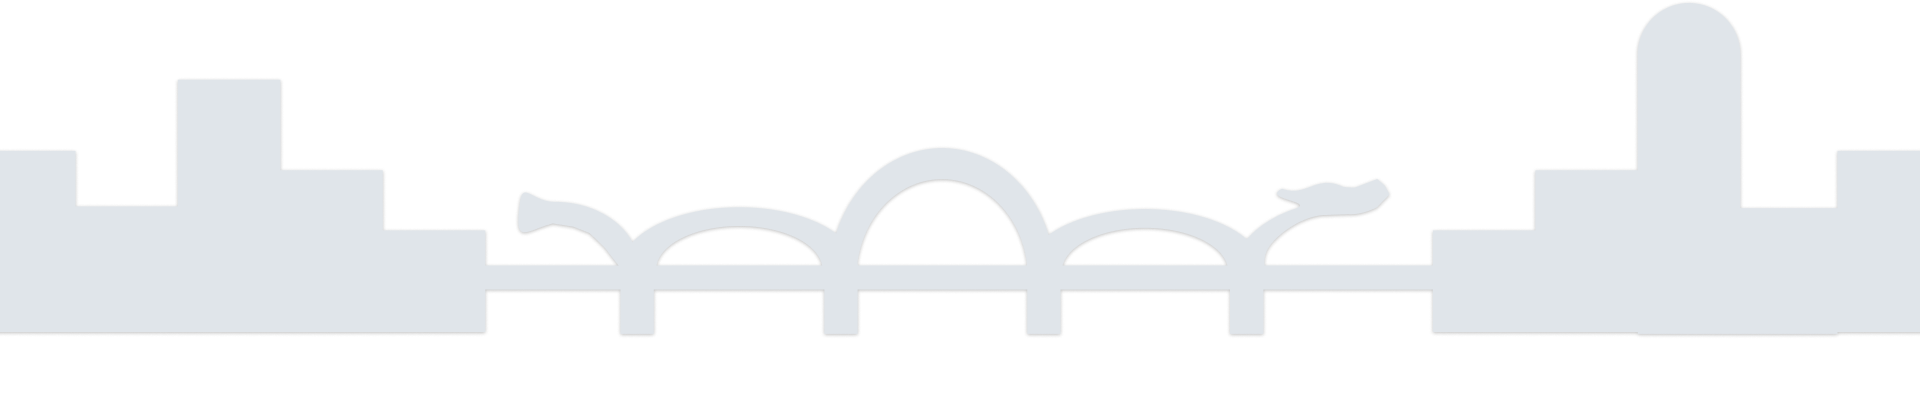
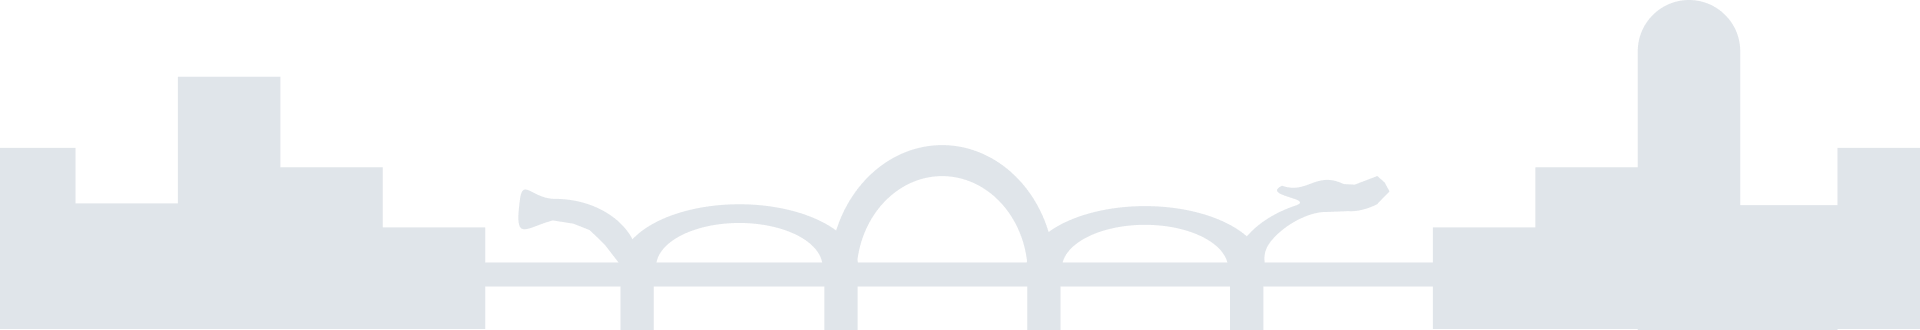
Repositioned items and added about me section

diff --git a/gordons_website/src/App.js b/gordons_website/src/App.js
@@ -5,42 +5,65 @@ import reflection from './images/Reflection.png';
 import author from './images/Author 1.png';
 import linkedin from './images/LinkedIn-Symbole 1.png';
 import github from './images/GitHub_Invertocat_Logo 1.png';
-import resume from './images/resume.png';
+import info_extra from './images/More-info2.png';
 
 
 function App() {
   return (
     <div className="App">
       
-
-      <div className="home-introduction-wrapper">
-        
-        <span className="navbar-wrapper">
-          <div className="navbar">
-            <a className="home">Home</a>
-            <a className="about-me">About me</a>
-            <a className="experience">Experience</a>
-            <a className="contact">Contact</a>
-          </div>
-        </span>
-
+      <span className="navbar-wrapper">
+        <ul className="navbar">
+          <a href="#home-introduction-wrapper" className="home">Home</a>
+          <a href="#about-me-wrapper" className="about-me">About me</a>
+          <a className="experience">Experience</a>
+          <a className="contact">Contact</a>
+        </ul>
+      </span>
+      <body>
+      <div id="home-introduction-wrapper">
         <img className="author" alt="Author" src={author} />
-        <h1 className="text-wrapper">Hi, I’m Gordon Huynh</h1>
-        <h1 className="subtext-wrapper">I am a student at the University of Waterloo with a passion for tech</h1>
-        <a href="https://www.linkedin.com/in/gordon-huynh-02a5571b3/">
-          <img className="linkedin-symbole" alt="Linkedin symbole" src={linkedin} />
-        </a>
-        <a href="https://github.com/CodeOfGordon?tab=repositories">
-          <img className="github-invertocat" alt="Github invertocat" src={github} />
-        </a>
-        <a href="https://drive.google.com/file/d/18oq8aBr6L-bAwDpONeU_5ohLOpXfCApU/view?usp=sharing">
-          <img className="resume" alt="resume button" src={resume} />
-        </a>
+        <div className="info">
+          <h1 className="text-wrapper">Hi, I’m Gordon Huynh</h1>
+          <h1 className="subtext-wrapper">I am a student at the University of Waterloo with a passion for tech</h1>
+          <div className="Social-medias">
+            <a target="_blank" href="https://www.linkedin.com/in/gordon-huynh-02a5571b3/">
+              <img className="linkedin-symbole" alt="Linkedin symbole" src={linkedin} />
+            </a>
+            <a target="_blank" href="https://github.com/CodeOfGordon?tab=repositories">
+              <img className="github-invertocat" alt="Github invertocat" src={github} />
+            </a>
+            <a className="resume-wrapper" target="_blank" href="https://drive.google.com/file/d/18oq8aBr6L-bAwDpONeU_5ohLOpXfCApU/view?usp=sharing">
+              <h1 className="resume">Resume</h1>
+            </a>
+          </div>
+        </div>
       </div>
       
-      <img className="city" alt="City" src={city} />
-      <img className="reflection" alt="Reflection" src={reflection} />
+      <div className="city-wrapper">
+        <a className="More_info2" target="_blank" href="https://youindanang.com/dragon-bridge-da-nang-vietnam/">
+          <img id="info2_icon" alt="Extra info" src={info_extra}/>
+        </a>
+        <img className="city" alt="City" src={city} />
+        <img className="reflection" alt="Reflection of city" src={reflection} />
+      </div>
       
+      <div id="about-me-wrapper">
+        <h1>About me</h1>
+        <p id="about-me-text">
+          I’m student studying for a Bachelors Degree of Arts in Math Economics, 
+          and I am planning to minor in computing considering my interest in tech, 
+          and how I hope to find a way to marry the two topics someday. 
+          <br/><br/>
+          There are many things I have learned, yet to learn, and things that I will want 
+          to learn in the future.
+          This is the main reason why I want to go into the field of tech, 
+          so I can keep life more interesting.
+        </p>
+      </div>
+      </body>
+      
+
     </div>
   );
 }

diff --git a/gordons_website/src/App.css b/gordons_website/src/App.css
@@ -1,108 +1,169 @@
 .App {
     height: 368.625em;
+}
+
+.body {
     align-items: center;
+    
+    display: flex;
+    flex-direction: column;
+    
 }
 
 .navbar-wrapper {
-    z-index: 9999;
-    position: fixed;
-    background-color: #f9fcff80;
-    display: inline-block;
+    background-color: #FAFCFF;
     width: 100%;
-    height: 7%;
-    top: 0;
-    left: 60%;
 }
 
 .navbar {
-    position: relative;
+    z-index: 999;
+    opacity: 100%;
+    position: sticky;
+    top: 0%; /* need to use (top/left/...) with position: sticky; */
     display: flex;
     width: 40%;
     justify-content: space-evenly;
     font-family: "Noto Sans Tai Viet-Regular", Helvetica;
     padding: 1%;
     font-size: 20px;
+    left: 60%;
+}
+
+a {
+    color: black;
+}
+
+a:link {
+    text-decoration: none;
+}
+
+a:visited {
+    text-decoration: none;
+}
+
+a:hover {
+    text-decoration: none;
+}
+
+a:active {
+    text-decoration: none;
+}
+
+h1 {
+    color: #293f56;
+    font-family: "Be Vietnam-Bold", Helvetica;
+    font-size: 4.5rem;
 }
 
 /* Home introduction */
 
-.home-introduction-wrapper {
+#home-introduction-wrapper {
     border: none;
-    height: 20em;
-    width: 60em;
-    margin-top: 10%;
+    height: 5%;
+    width: 70%;
+    margin-top: 1%;
     margin-left: 5%;
-    flex-direction: row;
+    margin-bottom: 1.5%;
+    display: flex;
 }
 
 .author {
-    width: 20%;
-    position: relative;
     margin-right: 3%;
+    height: 100%;
+}
+
+.info {
+    display: flex;
+    flex-direction: column;
 }
 
 .text-wrapper {
-    color: #293f56;
-    font-family: "Be Vietnam-Bold", Helvetica;
-    font-size: 70px;
     font-weight: 700;
-    letter-spacing: 0;
-    line-height: normal;
     text-shadow: 0px 4px 4px #00000040;
-    position: relative;
-    bottom: 80%;
-    left: 20%;
-    margin-left: 3%;
+    margin-bottom: 0%;
 }
 
 .subtext-wrapper {
     color: #293f56;
     font-family: "Antic Slab-Regular", Helvetica;
-    font-size: 30px;
+    font-size: 1.8rem;
     font-weight: 400;
-    letter-spacing: 0;
-    line-height: normal;
-    position: relative;
-    left: 20%;
-    bottom: 90%;
-    margin-left: 3%;
+    margin-bottom: 2%;
+}
+
+.Social-medias {
+    display: flex;
+    margin-bottom: 0%;
 }
 
 .linkedin-symbole {
-    position: relative;
-    width: 10%;
-    bottom: 90%;
-    left: 22%;
+    width: 70%;
+    margin: 0%;
+    padding: 0%;
 }
 
-.github-invertocat {
-    position: relative;
-    width: 6%;
-    bottom: 90%;
-    left: 22%;
+.github-invertocat { 
+    width: 120%;
 }
 
-.resume {
-    position: relative;
+.resume-wrapper {
     width: 20%;
-    bottom: 90%;
-    left: 25%;
+    margin-left: 5%;
+    padding-right: 1.5%;
+    padding-left: 1%;
+    color: #393939;
+    background-color: #D0DBE7;
+    border-radius: 5%;
+    justify-content: center;
+    align-items: center;
 }
 
+.resume { 
+    font-size: 2.5rem;
+    margin: 5%;
+}
+
+
+.More_info2 {
+    position: absolute;
+    left: 69%;
+    top: 72%;
+    opacity: 5%;
+    width: 5%;
+    height: 5%;
+}
+
+.More_info2:hover {
+    transition: 0.3s;
+    opacity: 100%;
+}
+
+#info2_icon {
+    height: auto;
+    width: auto;
+}
 
 .city {
     width: 100%;
-    position: absolute;
-    top: 60%;
-    left: 0%;
+    margin-bottom: 0;
 }
 
 .reflection {
+    margin-top: 0;
     width: 100%;
-    position: absolute;
-    top: 95%;
-    left: 0%;
 }
     
+/* About me */
 
+#about-me-wrapper {
+    width: 90%;
+    margin-top: 5%;
+    margin-left: 3.5%;
+    padding: 2%;
+    background-color: #89A5C2;
+}
+
+#about-me-text {
+    font-size: 1.5rem;
+}
 
